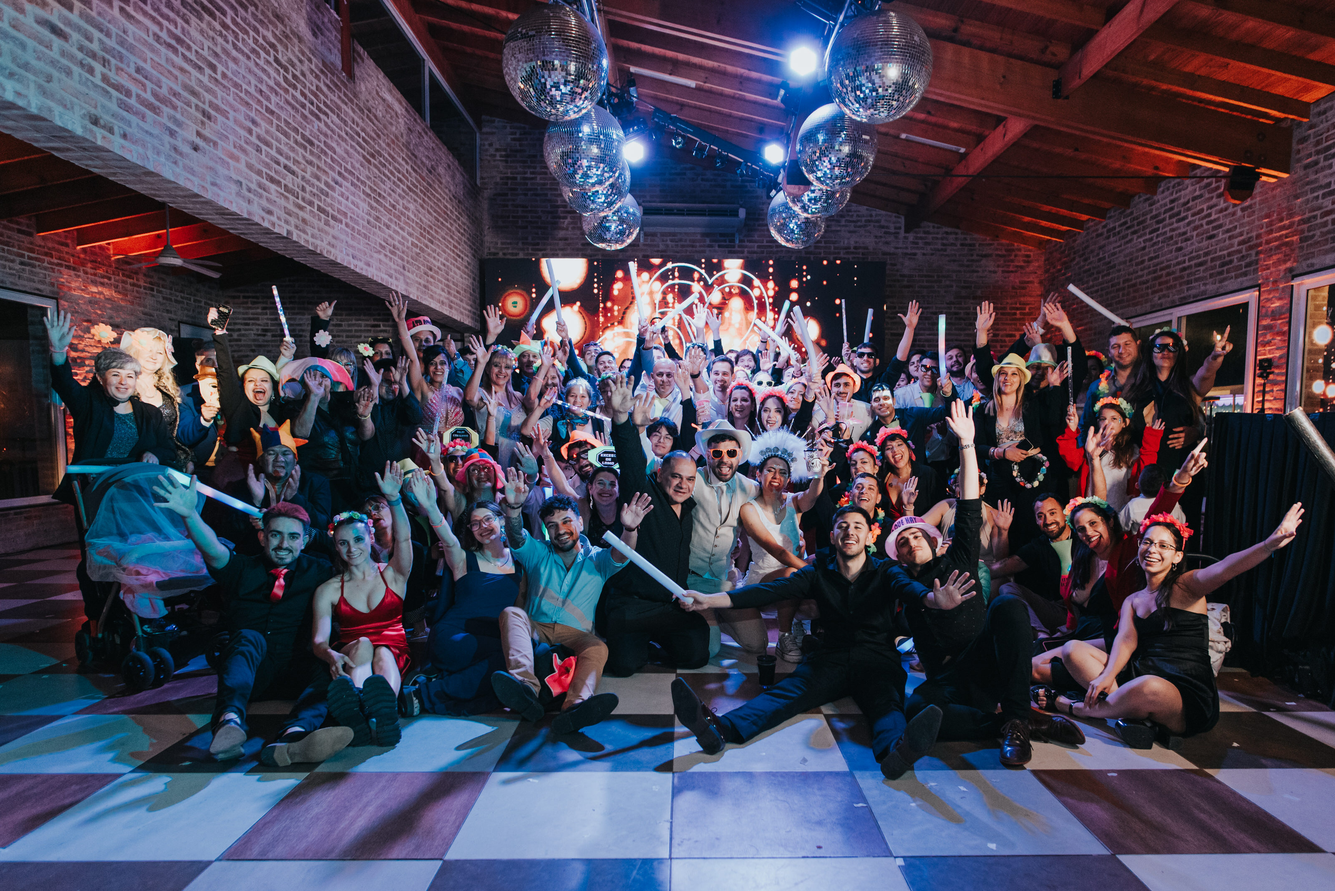
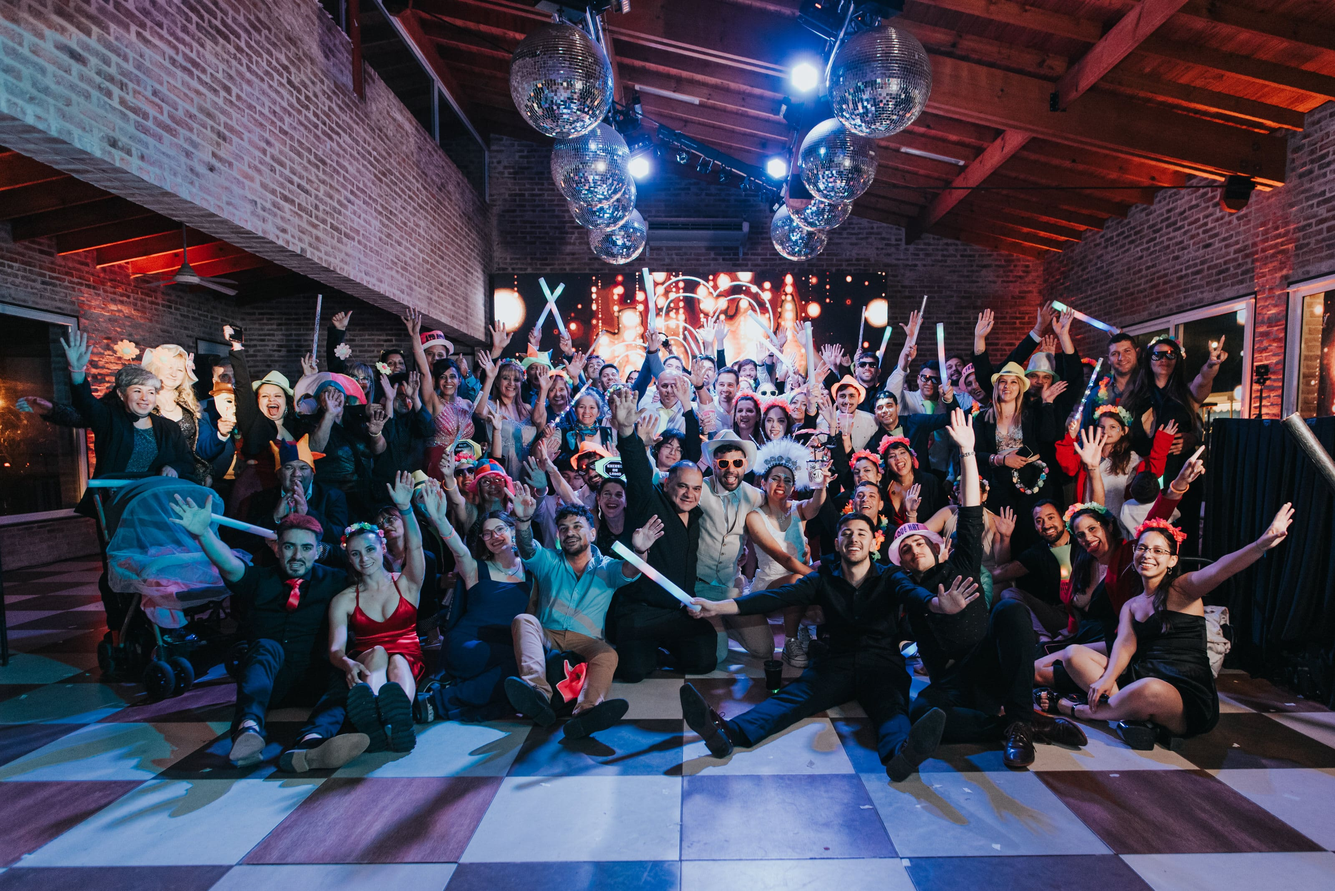
Compress party image

diff --git a/app/layout.tsx b/app/layout.tsx
@@ -11,7 +11,7 @@ import Config from '../components/config';
 
 import { Providers } from './providers';
 
-const DESCRIPTION = 'Te invitamos a formar parte de nuestra historia!';
+const DESCRIPTION = 'Gracias por formar parte de nuestra historia!';
 const TITLE = '¡Nos Casamos! Cami & Fede';
 
 import { fontSans, starWhite, youngSerif } from '@/config/fonts';
